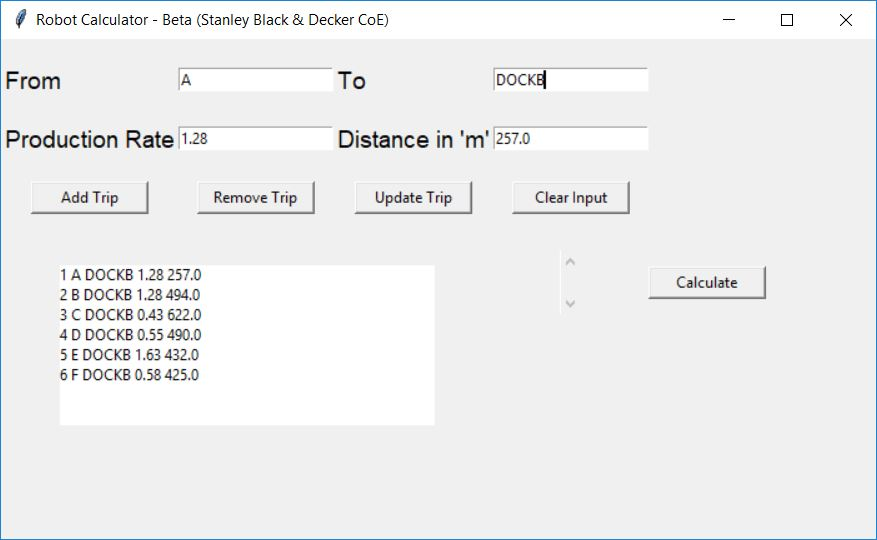
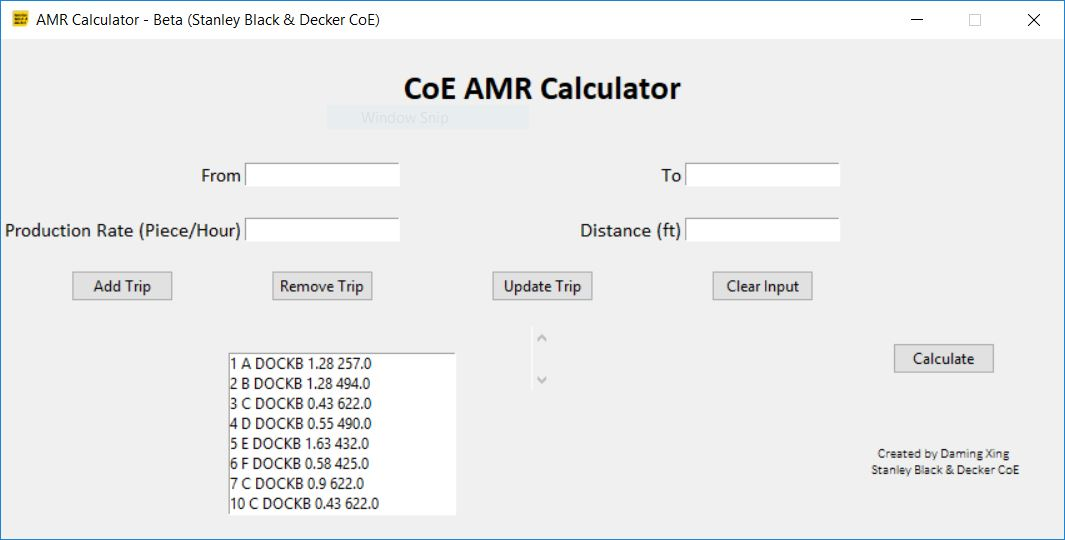
Add files via upload

diff --git a/RobotCalculator.py b/RobotCalculator.py
@@ -1,7 +1,8 @@
 import tkinter as tk
 from tkinter import messagebox
+from tkinter import ttk
 from db import Database
-from PIL import ImageTk, Image
+from PIL import Image, ImageTk
 import os
 import Calculation
 
@@ -10,60 +11,72 @@ db = Database('store.db')
 
 # Main Application/GUI class
 
-
 class Application(tk.Frame):
     def __init__(self, master):
         super().__init__(master)
         self.master = master
-        master.title('Robot Calculator - Beta (Stanley Black & Decker CoE)')
+        master.title('AMR Calculator - Beta (Stanley Black & Decker CoE)')
+        
         # Width height
-        master.geometry("700x400")
+        master.geometry("850x400")
+        master.resizable(False, False)
+        
         # Create widgets/grid
         self.create_widgets()
+        
         # Init selected item var
         self.selected_item = 0
+        
         # Populate initial list
         self.populate_list()
+        master.iconbitmap(self, default="SquareLogo.ico")
+
+        self.add_logo()
+
+    def add_logo(self):
+        pic_name = "Stanley_Black_&_Decker_logo.png"
+        load = Image.open(pic_name)
+        render = ImageTk.PhotoImage(load)
+        img = tk.Label(self, image=render)
+        img.image = render
+        img.place(x=0, y=0)
 
     def create_widgets(self):
         # From Input
+        self.title = tk.StringVar()
+        self.title = tk.Label(self.master, text='CoE AMR Calculator', font=('Calibri Bold', 20), pady=20)
+        self.title.grid(row=0, column=2)
+
         self.from_text = tk.StringVar()
-        self.from_label = tk.Label(
-            self.master, text='From', font=('bold', 14), pady=20)
-        self.from_label.grid(row=0, column=0, sticky=tk.W)
+        self.from_label = tk.Label(self.master, text='From', font=('Calibri', 12), pady=20)
+        self.from_label.grid(row=1, column=0, sticky=tk.E)
         self.from_entry = tk.Entry(self.master, textvariable=self.from_text)
-        self.from_entry.grid(row=0, column=1)
+        self.from_entry.grid(row=1, column=1)
         # To Input
         self.to_list = tk.StringVar()
-        self.to_label = tk.Label(
-            self.master, text='To', font=('bold', 14))
-        self.to_label.grid(row=0, column=2, sticky=tk.W)
-        self.to_entry = tk.Entry(
-            self.master, textvariable=self.to_list)
-        self.to_entry.grid(row=0, column=3)
+        self.to_label = tk.Label(self.master, text='To', font=('Calibri', 12))
+        self.to_label.grid(row=1, column=2, sticky=tk.E)
+        self.to_entry = tk.Entry(self.master, textvariable=self.to_list)
+        self.to_entry.grid(row=1, column=3)
         # ProductionRate
         self.ProductionRate = tk.StringVar()
-        self.ProductionRate_label = tk.Label(
-            self.master, text='Production Rate', font=('bold', 14))
-        self.ProductionRate_label.grid(row=1, column=0, sticky=tk.W)
-        self.ProductionRate_entry = tk.Entry(
-            self.master, textvariable=self.ProductionRate)
-        self.ProductionRate_entry.grid(row=1, column=1)
+        self.ProductionRate_label = tk.Label(self.master, text="Production Rate (Piece/Hour)", font=('Calibri', 12))
+        self.ProductionRate_label.grid(row=2, column=0, sticky=tk.E)
+        self.ProductionRate_entry = tk.Entry(self.master, textvariable=self.ProductionRate)
+        self.ProductionRate_entry.grid(row=2, column=1)
         # Distance
         self.Distance_text = tk.StringVar()
-        self.Distance_label = tk.Label(
-            self.master, text="Distance in 'm'", font=('bold', 14))
-        self.Distance_label.grid(row=1, column=2, sticky=tk.W)
+        self.Distance_label = tk.Label(self.master, text="Distance (ft)", font=('Calibri', 12))
+        self.Distance_label.grid(row=2, column=2, sticky=tk.E)
         self.Distance_entry = tk.Entry(self.master, textvariable=self.Distance_text)
-        self.Distance_entry.grid(row=1, column=3)
+        self.Distance_entry.grid(row=2, column=3)
 
         # From to list (listbox)
-        self.from_to_list = tk.Listbox(self.master, height=8, width=50, border=0)
-        self.from_to_list.grid(row=3, column=0, columnspan=3,
-                             rowspan=6, pady=20, padx=20)
+        self.from_to_list = tk.Listbox(self.master, height=8, width=30, border=1)
+        self.from_to_list.grid(row=4, column=0, columnspan=3, rowspan=6, pady=20, padx=20)
         # Create scrollbar
         self.scrollbar = tk.Scrollbar(self.master)
-        self.scrollbar.grid(row=3, column=3)
+        self.scrollbar.grid(row=4, column=2)
         # Set scrollbar to Trips
         self.from_to_list.configure(yscrollcommand=self.scrollbar.set)
         self.scrollbar.configure(command=self.from_to_list.yview)
@@ -72,25 +85,26 @@ class Application(tk.Frame):
         self.from_to_list.bind('<<ListboxSelect>>', self.select_item)
 
         # Buttons
-        self.add_btn = tk.Button(
-            self.master, text="Add Trip", width=12, command=self.add_item)
-        self.add_btn.grid(row=2, column=0, pady=20)
+        self.add_btn = ttk.Button(self.master, text="Add Trip", width=12, command=self.add_item)
+        self.add_btn.grid(row=3, column=0, pady=20)
 
-        self.remove_btn = tk.Button(
-            self.master, text="Remove Trip", width=12, command=self.remove_item)
-        self.remove_btn.grid(row=2, column=1)
+        self.remove_btn = ttk.Button(self.master, text="Remove Trip", width=12, command=self.remove_item)
+        self.remove_btn.grid(row=3, column=1)
 
-        self.update_btn = tk.Button(
-            self.master, text="Update Trip", width=12, command=self.update_item)
-        self.update_btn.grid(row=2, column=2)
+        self.update_btn = ttk.Button(self.master, text="Update Trip", width=12, command=self.update_item)
+        self.update_btn.grid(row=3, column=2)
 
-        self.exit_btn = tk.Button(
-            self.master, text="Clear Input", width=12, command=self.clear_text)
-        self.exit_btn.grid(row=2, column=3)
+        self.exit_btn = ttk.Button(self.master, text="Clear Input", width=12, command=self.clear_text)
+        self.exit_btn.grid(row=3, column=3)
 
-        self.calc_btn = tk.Button(
-            self.master, text="Calculate", width=12, command=self.display_result)        
-        self.calc_btn.grid(row=3, column=4)
+        self.calc_btn = ttk.Button(self.master, text="Calculate", width=12, command=self.display_result)        
+        self.calc_btn.grid(row=4, column=4)
+
+        # Addin contribution
+        self.contributor = tk.StringVar()
+        self.contributor_label = tk.Label(self.master, text='Created by Daming Xing\n Stanley Black & Decker CoE', font=('Calibri Light', 8), pady=20)
+        self.contributor_label.grid(row=5, column=4, pady=20, padx=20)
+
 
     def populate_list(self):
         # Delete items before update. So when you keep pressing it doesnt keep getting (show example by calling this twice)
@@ -107,13 +121,11 @@ class Application(tk.Frame):
             return
         print(self.from_text.get())
         # Insert into DB
-        db.insert(self.from_text.get(), self.to_list.get(),
-                  self.ProductionRate.get(), self.Distance_text.get())
+        db.insert(self.from_text.get(), self.to_list.get(),self.ProductionRate.get(), self.Distance_text.get())
         # Clear list
         self.from_to_list.delete(0, tk.END)
         # Insert into list
-        self.from_to_list.insert(tk.END, (self.from_text.get(), self.to_list.get(
-        ), self.ProductionRate.get(), self.Distance_text.get()))
+        self.from_to_list.insert(tk.END, (self.from_text.get(), self.to_list.get(), self.ProductionRate.get(), self.Distance_text.get()))
         self.clear_text()
         self.populate_list()
 
@@ -148,8 +160,7 @@ class Application(tk.Frame):
 
     # Update item
     def update_item(self):
-        db.update(self.selected_item[0], self.from_text.get(
-        ), self.to_list.get(), self.ProductionRate.get(), self.Distance_text.get())
+        db.update(self.selected_item[0], self.from_text.get(), self.to_list.get(), self.ProductionRate.get(), self.Distance_text.get())
         self.populate_list()
 
     # Clear all text fields
@@ -165,6 +176,7 @@ class Application(tk.Frame):
 
     
 root = tk.Tk()
+
 # img = ImageTk.PhotoImage(Image.open("Stanley_Black_&_Decker_logo.png"))
 # panel = tk.Label(root, image = img)
 # panel.pack(side = "bottom", fill = "both", expand = "yes")

diff --git a/picture_test.py b/picture_test.py
@@ -1,0 +1,22 @@
+import tkinter as tk
+from PIL import ImageTk, Image
+
+#This creates the main window of an application
+window = tk.Tk()
+window.title("picture test")
+window.geometry("300x300")
+window.configure(background='grey')
+
+path = "Stanley_Black_&_Decker_logo.png"
+
+#Creates a Tkinter-compatible photo image, which can be used everywhere Tkinter expects an image object.
+img = ImageTk.PhotoImage(Image.open(path))
+
+#The Label widget is a standard Tkinter widget used to display a text or image on the screen.
+panel = tk.Label(window, image = img)
+
+#The Pack geometry manager packs widgets in rows or columns.
+panel.pack(side = "bottom", fill = "both", expand = "yes")
+
+#Start the GUI
+window.mainloop()
